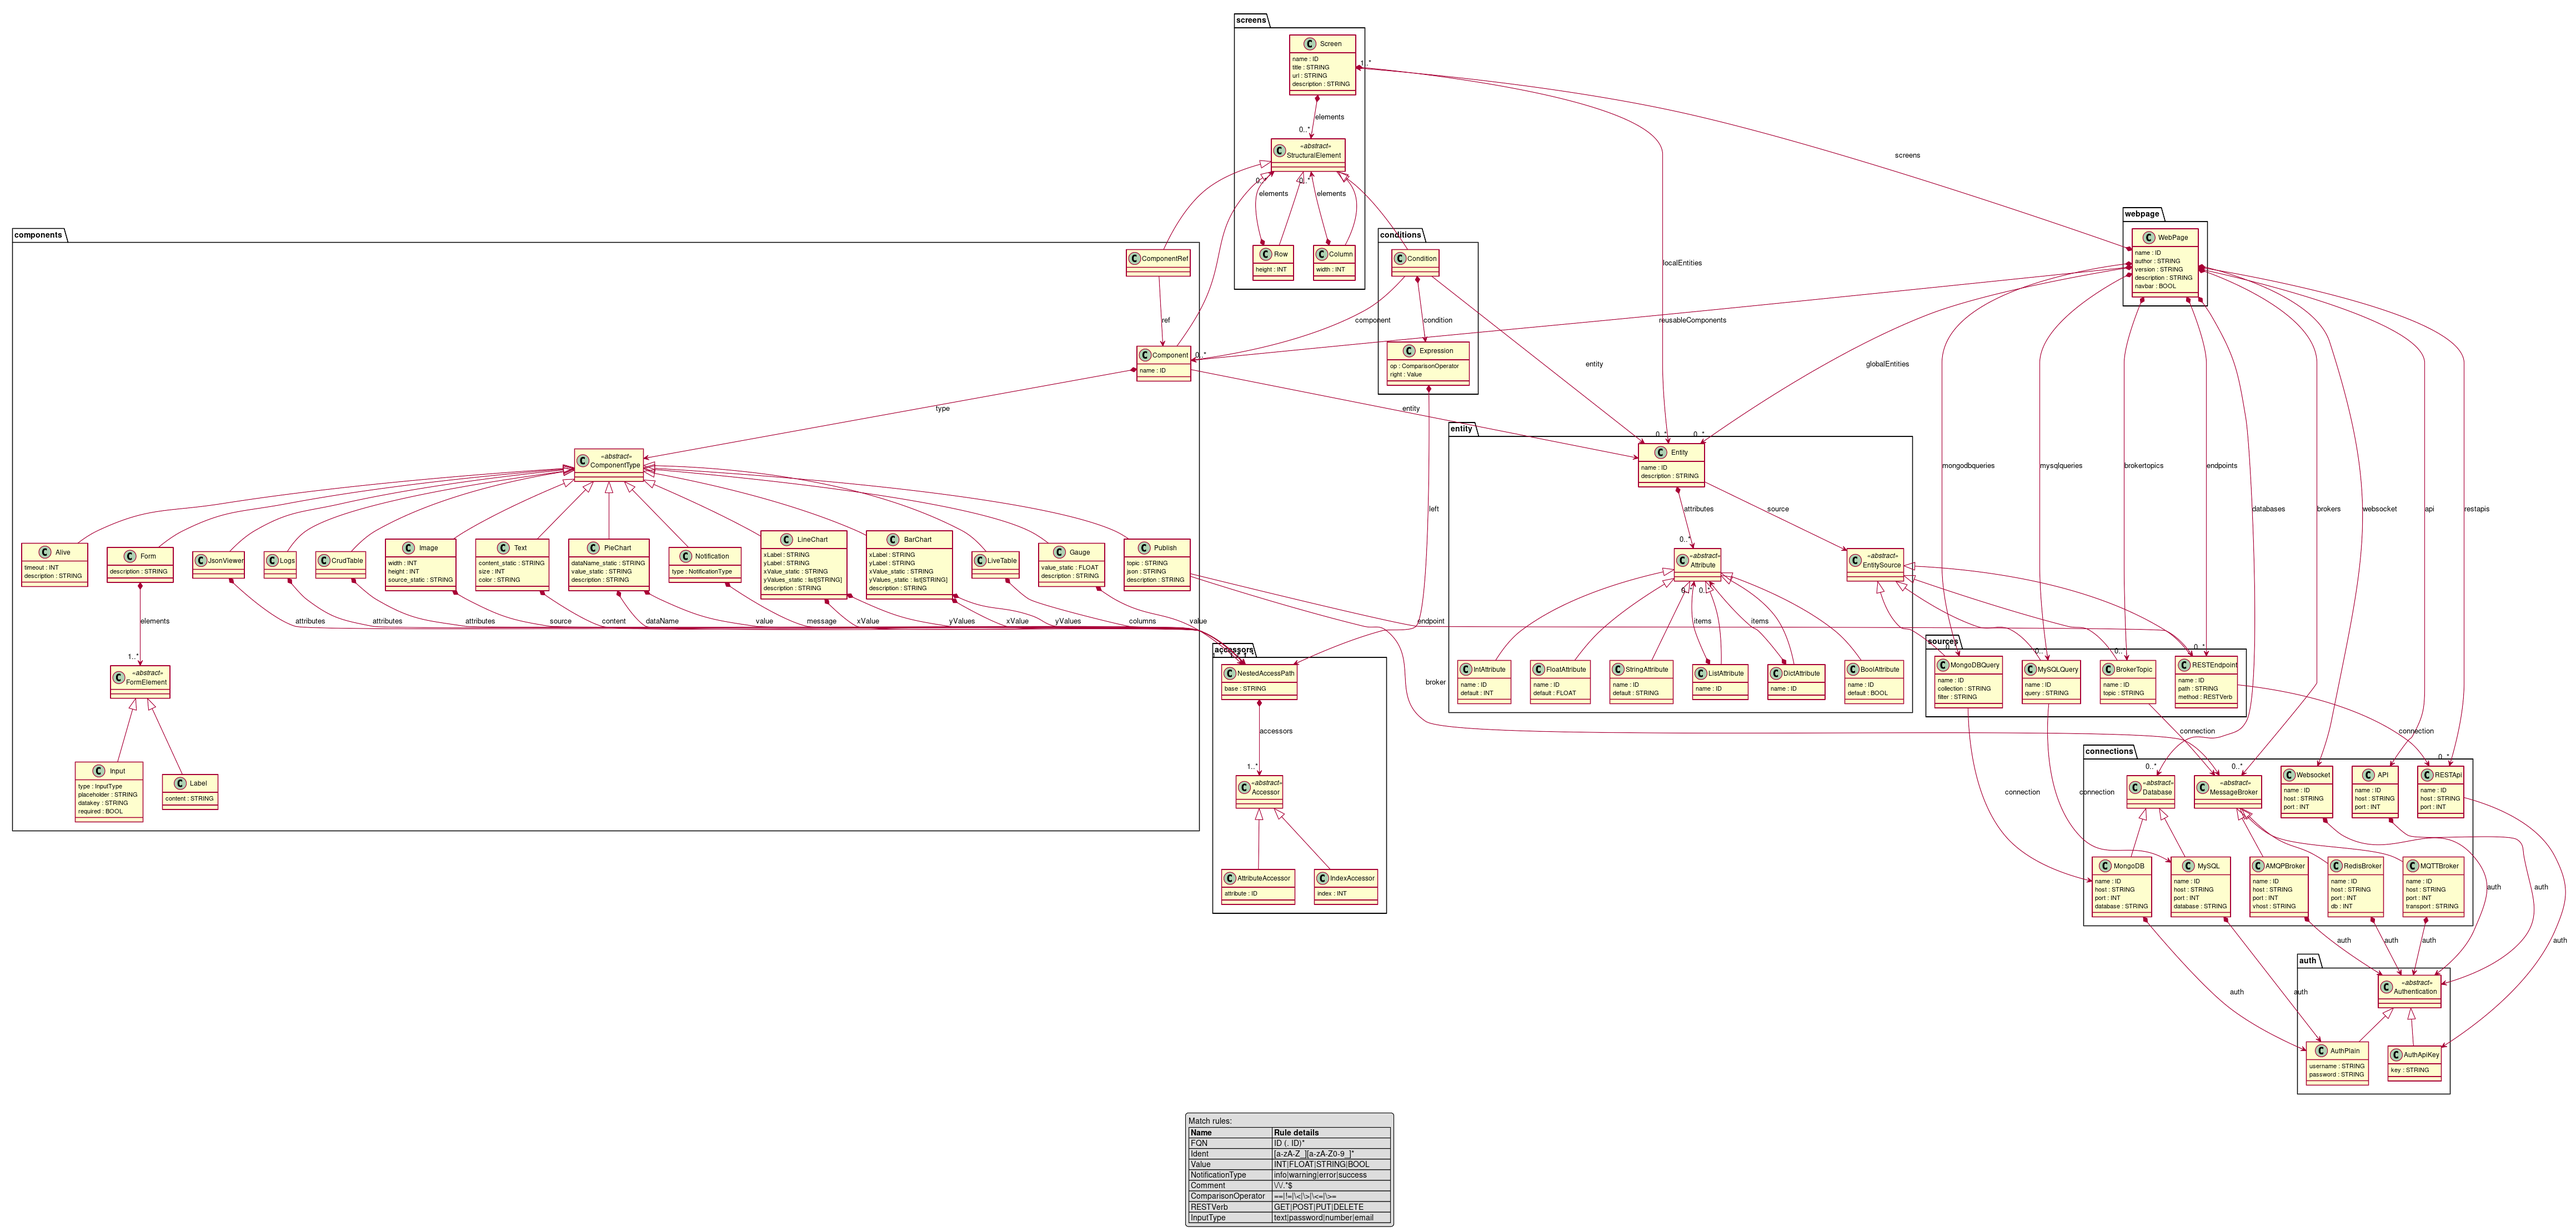
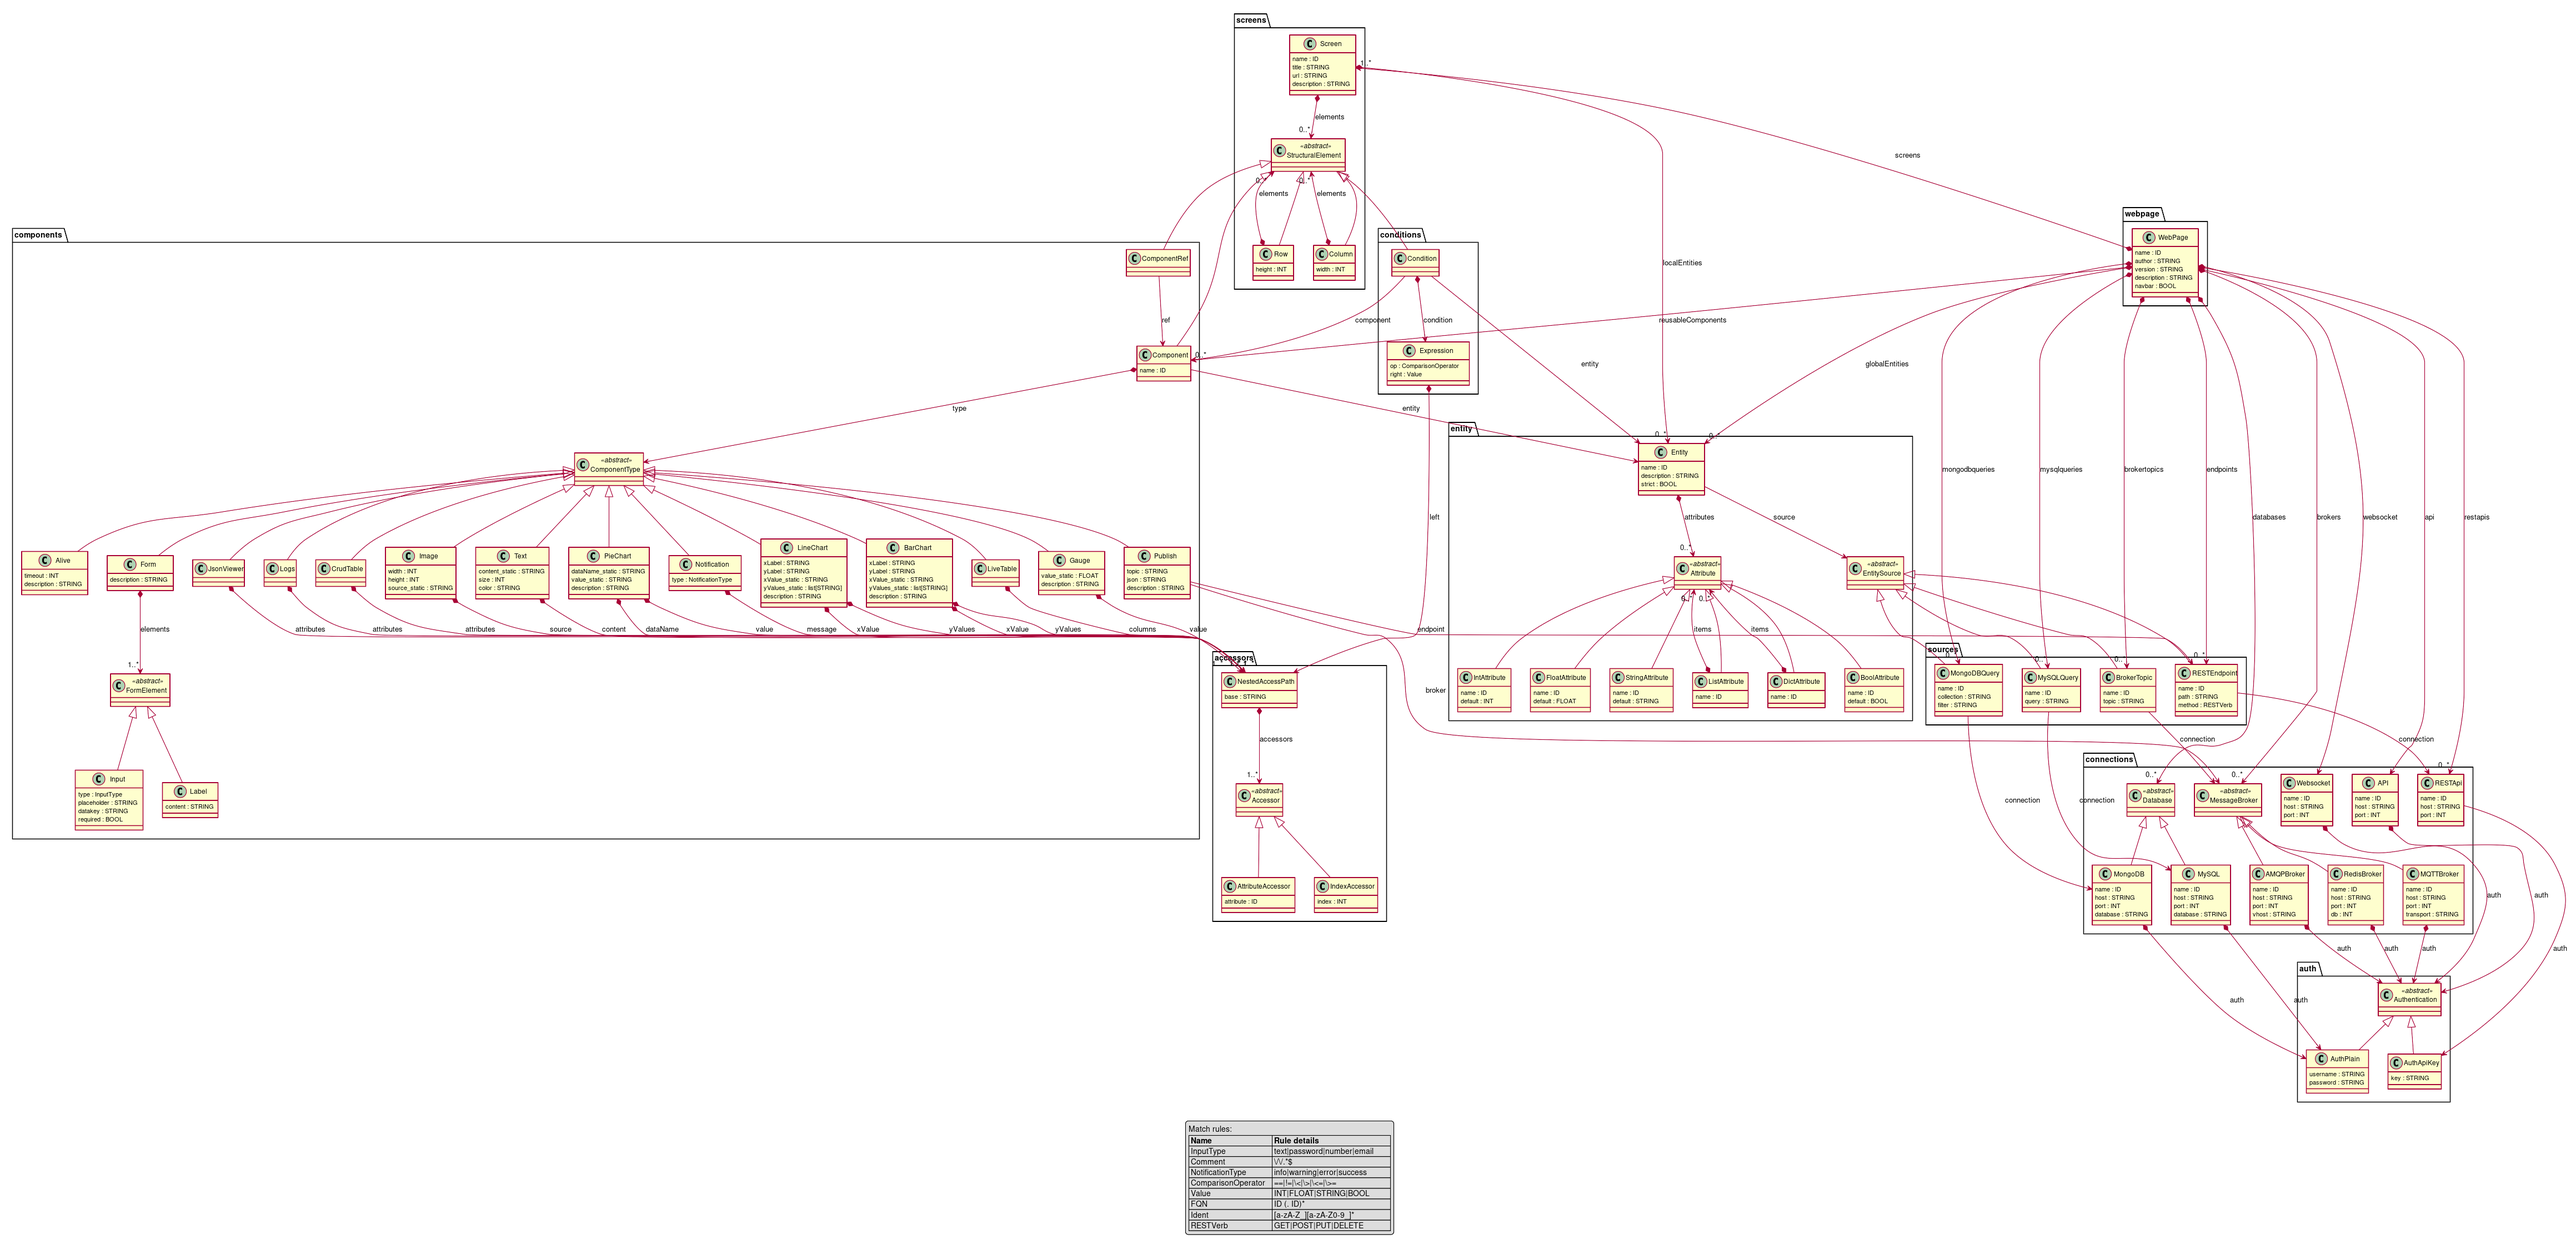
Added validation for strict entities

diff --git a/web_dsl/language.py b/web_dsl/language.py
@@ -122,12 +122,64 @@ def get_metamodel(debug: bool = False, global_repo: bool = True):
 #     pass
 
 
-# def validate_model(model):
-#     """Validates the model."""
-#     pass
-# Check for duplicate attribute names in global entities
-# Add more validation logic as needed
-# For example, check for required attributes, etc.
+def validate_model(model):
+    """Validates the model."""
+    all_entities = get_children_of_type("Entity", model)
+    strict_entities = strict_entities = [e for e in all_entities if e.strict]
+
+    all_components = get_children_of_type("Component", model)
+    components_referencing_strict_entities = [
+        c for c in all_components if c.entity and c.entity in strict_entities
+    ]
+
+    errors = validate_components_with_strict_entities(
+        components_referencing_strict_entities
+    )
+    if errors:
+        print("Validation errors:")
+        for error in errors:
+            print(f" - {error}")
+        raise TextXSemanticError(f"Model validation failed with {len(errors)} errors.")
+
+
+def validate_components_with_strict_entities(components):
+    errors = []
+    for component in components:
+        if not hasattr(component, "entity") or not component.entity:
+            continue
+
+        if not getattr(component.entity, "strict", False):
+            continue
+
+        # Collect all formatted attribute paths from the component type
+        attribute_paths = []
+
+        # Find all attributes that look like formatted paths (lists of mixed str/int)
+        for attr_name in dir(component.type):
+            if attr_name.startswith("_"):
+                continue
+            attr = getattr(component.type, attr_name)
+            if isinstance(attr, list) and all(isinstance(p, (int, str)) for p in attr):
+                attribute_paths.append(attr)
+            elif isinstance(attr, list) and all(
+                isinstance(p, list) and all(isinstance(e, (int, str)) for e in p)
+                for p in attr
+            ):
+                # This handles lists of paths, like yValues = [[0, 'temp'], [0, 'pressure']]
+                attribute_paths.extend(attr)
+
+        strict_entity_attributes = component.entity.attributes
+        strict_entity_attributes_names = [a.name for a in strict_entity_attributes]
+
+        for attribute in attribute_paths:
+            attribute_root = attribute[0]
+
+            if attribute_root not in strict_entity_attributes_names:
+                errors.append(
+                    f"Component '{component.name}' uses attribute '{attribute_root}' not allowed by strict entity '{component.entity.name}'"
+                )
+                continue
+    return errors
 
 
 def build_model(model_path: str):
@@ -137,5 +189,5 @@ def build_model(model_path: str):
     mm = get_metamodel(debug=False)
     model = mm.model_from_file(model_path)
     # set_defaults(model)  # Set default values for the model
-    # validate_model(model)  # Validate
+    validate_model(model)  # Validate
     return model  # Return the built model
